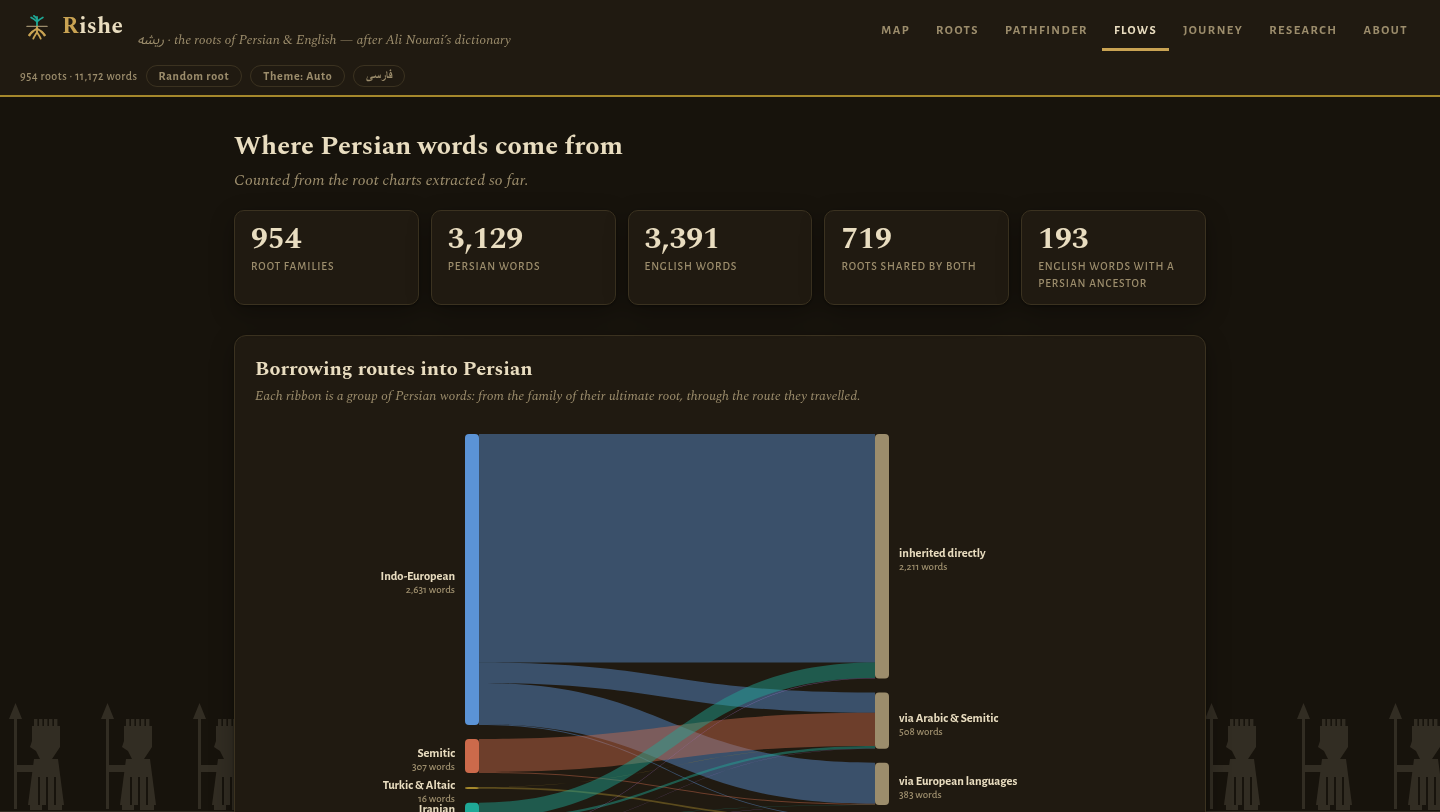
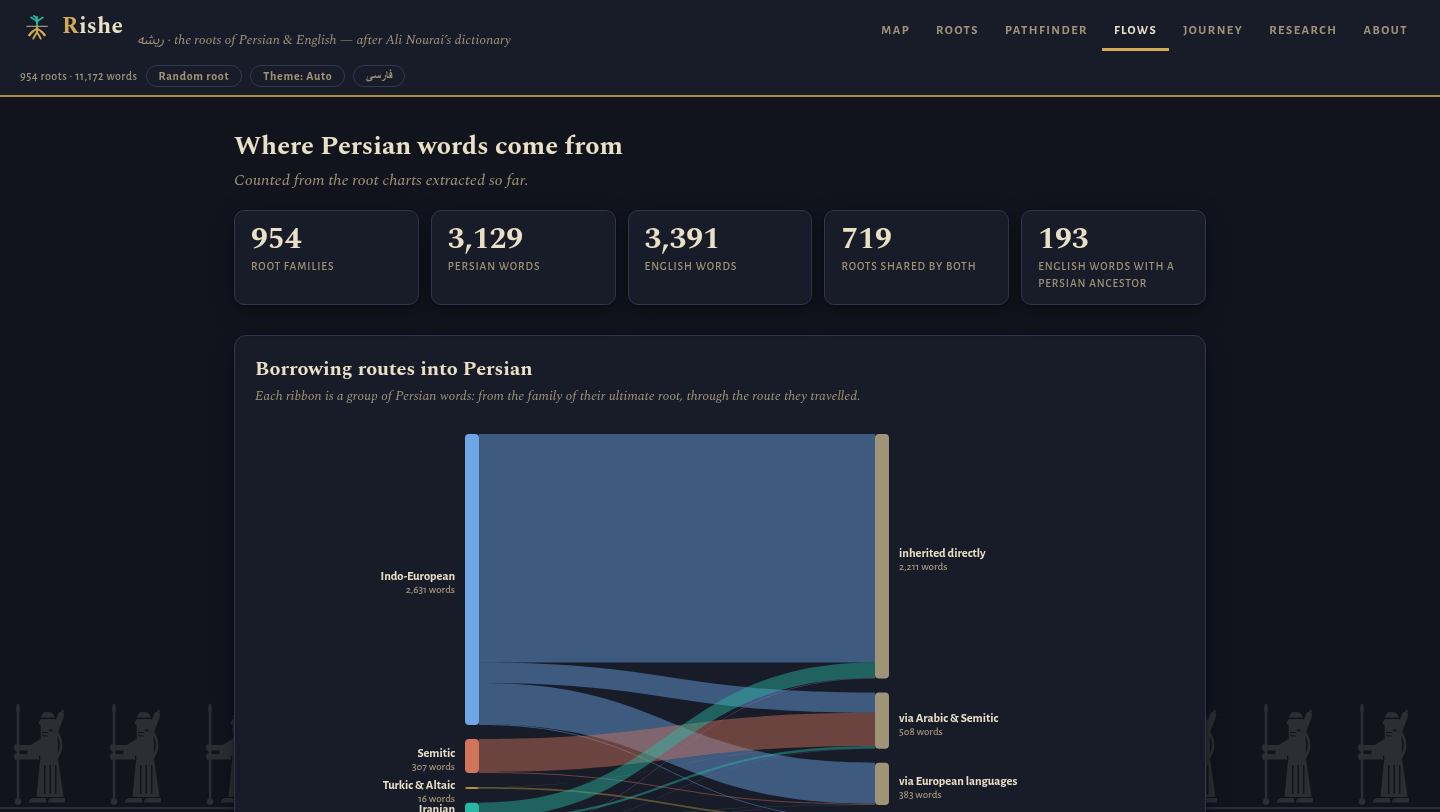
Redraw the frieze as Susa Immortals; recolor the dark theme as lapis night
- The bottom frieze figure is now an Achaemenid Immortal after the
  Susa archer frieze: fillet headband, long square beard, quiver and
  bow slung on the back, both hands gripping an upright spear with
  its ball counterweight at the foot, ankle-length fluted robe —
  drawn at 2x for crisp tiling
- Dark theme moves from flat brown-black to a deep lapis-night
  ground with glazed-brick accents: indigo panels, warm cream ink,
  brighter gold, and turquoise / lapis / terracotta / ochre family
  colors; the parchment light theme is unchanged
- Regenerate the README demo GIF, screenshots, and the og:image
  (docs/screenshot.jpg) from the new build

Claude-Session: https://claude.ai/code/session_016yse7688U6yZTTtuwaciV1

Changed region(s): [[0.8125, 0.8621, 1.0, 1.0], [0.0, 0.8621, 0.1875, 1.0]]

diff --git a/site/template.html b/site/template.html
@@ -57,43 +57,43 @@
   }
   @media (prefers-color-scheme: dark) {
     :root:not([data-theme="light"]) {
-      --bg: #17130c;
-      --panel: #201a11;
-      --panel-2: #2b2314;
-      --ink: #e9ddc0;
-      --muted: #9c8d6c;
-      --line: #3b3220;
-      --accent: #c9a353;
-      --accent-ink: #1c160d;
-      --gold: #c9a353;
-      --gold-soft: #a5882c;
-      --fam-iranian: #1fa896;
-      --fam-ie: #5b93d6;
-      --fam-semitic: #cc6a4b;
-      --fam-turkic: #a5882c;
-      --fam-other: #b078dd;
-      --quote-bg: #191510;
-      --shadow: 0 1px 3px rgba(0,0,0,.4), 0 8px 24px rgba(0,0,0,.3);
+      --bg: #11141d;
+      --panel: #181c29;
+      --panel-2: #222839;
+      --ink: #e9e0c6;
+      --muted: #a09478;
+      --line: #303750;
+      --accent: #d4ab52;
+      --accent-ink: #171307;
+      --gold: #d4ab52;
+      --gold-soft: #ab8c3a;
+      --fam-iranian: #27b9a4;
+      --fam-ie: #6ea6e8;
+      --fam-semitic: #d0745a;
+      --fam-turkic: #b5943f;
+      --fam-other: #b381de;
+      --quote-bg: #141724;
+      --shadow: 0 1px 3px rgba(0,0,0,.45), 0 8px 24px rgba(0,0,0,.35);
     }
   }
   :root[data-theme="dark"] {
-    --bg: #17130c;
-    --panel: #201a11;
-    --panel-2: #2b2314;
-    --ink: #e9ddc0;
-    --muted: #9c8d6c;
-    --line: #3b3220;
-    --accent: #c9a353;
-    --accent-ink: #1c160d;
-    --gold: #c9a353;
-    --gold-soft: #a5882c;
-    --fam-iranian: #1fa896;
-    --fam-ie: #5b93d6;
-    --fam-semitic: #cc6a4b;
-    --fam-turkic: #a5882c;
-    --fam-other: #b078dd;
-    --quote-bg: #191510;
-    --shadow: 0 1px 3px rgba(0,0,0,.4), 0 8px 24px rgba(0,0,0,.3);
+    --bg: #11141d;
+    --panel: #181c29;
+    --panel-2: #222839;
+    --ink: #e9e0c6;
+    --muted: #a09478;
+    --line: #303750;
+    --accent: #d4ab52;
+    --accent-ink: #171307;
+    --gold: #d4ab52;
+    --gold-soft: #ab8c3a;
+    --fam-iranian: #27b9a4;
+    --fam-ie: #6ea6e8;
+    --fam-semitic: #d0745a;
+    --fam-turkic: #b5943f;
+    --fam-other: #b381de;
+    --quote-bg: #141724;
+    --shadow: 0 1px 3px rgba(0,0,0,.45), 0 8px 24px rgba(0,0,0,.35);
   }
   * { box-sizing: border-box; }
   html, body { height: 100%; }
@@ -3068,38 +3068,86 @@ window.ETYM_GANJOOR = /*__GANJOOR__*/null;
   let themePref = "";
   try { themePref = localStorage.getItem("wr-theme") || ""; } catch (e) {}
   function drawFrieze() {
-    const h = 110, unit = 92;
+    // An Immortal of the guard, after the Susa archer frieze: fillet headband,
+    // long square beard, quiver and bow on the back, both hands on the spear,
+    // ankle-length fluted robe. Facing left; design space 96x110, drawn at 2x.
+    const h = 110, unit = 96;
     const c = document.createElement("canvas");
-    c.width = unit; c.height = h;
+    c.width = unit * 2; c.height = h * 2;
     const x = c.getContext("2d");
+    x.scale(2, 2);
     const col = tokColor("--ink") || "#333";
-    x.fillStyle = col;
-    // spear
-    x.fillRect(14, 12, 3, 94);
-    x.beginPath(); x.moveTo(15.5, 0); x.lineTo(9, 16); x.lineTo(22, 16); x.closePath(); x.fill();
-    // fluted cap
-    for (let i = 0; i < 5; i++) x.fillRect(34 + i * 5, 16, 3.4, 8);
-    x.fillRect(32, 23, 28, 9);
-    // head + beard (facing left)
+    x.fillStyle = col; x.strokeStyle = col;
+    // spear: vertical, leaf point up, ball counterweight at the foot
+    x.fillRect(16.8, 9, 2.6, 88);
     x.beginPath();
-    x.moveTo(32, 32); x.lineTo(60, 32); x.lineTo(60, 44); x.lineTo(52, 56);
-    x.lineTo(40, 56); x.lineTo(36, 48); x.lineTo(30, 44); x.lineTo(32, 38);
-    x.closePath(); x.fill();
-    // body robe
+    x.moveTo(18, 0); x.quadraticCurveTo(21.8, 6, 18, 12);
+    x.quadraticCurveTo(14.2, 6, 18, 0); x.closePath(); x.fill();
+    x.beginPath(); x.arc(18, 98.5, 3.4, 0, 7); x.fill();
+    // bow slung along the back
+    x.lineWidth = 2.6;
+    x.beginPath(); x.arc(40, 42, 21, -0.68, 0.7); x.stroke();
+    // quiver on the back, arrows' tuft above the shoulder
+    x.save();
+    x.translate(56, 26); x.rotate(0.35);
+    x.fillRect(-3.2, -15, 6.4, 18);
+    x.beginPath(); x.arc(0, -15, 3.2, Math.PI, 0); x.fill();
+    x.fillRect(-1, -20.5, 2, 5.5);
+    x.restore();
+    // head: profile, fillet band, hair, long square beard
     x.beginPath();
-    x.moveTo(34, 56); x.lineTo(58, 56); x.lineTo(64, 102); x.lineTo(28, 102);
+    x.moveTo(44, 9.5);
+    x.quadraticCurveTo(41, 12, 40.5, 16);
+    x.lineTo(38.5, 20.5);
+    x.lineTo(41, 22.5);
+    x.lineTo(40.5, 25);
+    x.lineTo(41, 36);
+    x.quadraticCurveTo(44.5, 38.5, 48, 36);
+    x.lineTo(48.5, 27);
+    x.lineTo(54, 26);
+    x.quadraticCurveTo(57.5, 18, 53, 10.5);
+    x.quadraticCurveTo(48, 8, 44, 9.5);
     x.closePath(); x.fill();
-    // arm to spear
-    x.fillRect(16, 62, 22, 7);
-    // hem folds (carve out)
+    // robe, slight flare to the ankles
+    x.beginPath();
+    x.moveTo(44, 28);
+    x.lineTo(41.5, 40);
+    x.lineTo(40, 58);
+    x.lineTo(36.5, 94);
+    x.lineTo(63.5, 94);
+    x.lineTo(58, 56);
+    x.lineTo(57.5, 30);
+    x.quadraticCurveTo(51, 27, 44, 28);
+    x.closePath(); x.fill();
+    // arms: sleeve drape + two forearms gripping the shaft
+    x.beginPath();
+    x.moveTo(42, 35); x.lineTo(29, 43); x.lineTo(27, 52); x.lineTo(42, 53);
+    x.closePath(); x.fill();
+    x.fillRect(15, 42, 27, 5.5);
+    x.fillRect(15, 51, 24, 5.5);
+    x.beginPath(); x.arc(17.5, 44.7, 3.7, 0, 7); x.fill();
+    x.beginPath(); x.arc(17.5, 53.7, 3.7, 0, 7); x.fill();
+    // carve details: headband, beard curls, robe folds
     x.globalCompositeOperation = "destination-out";
-    x.fillRect(38, 74, 2, 28); x.fillRect(46, 74, 2, 28); x.fillRect(54, 74, 2, 28);
+    x.fillRect(40.5, 14.6, 15, 1.5);
+    x.fillRect(41.8, 29, 6, 1.1);
+    x.fillRect(41.8, 32.3, 6, 1.1);
+    x.fillRect(44, 62, 1.5, 29);
+    x.fillRect(49.5, 62, 1.5, 29);
+    x.fillRect(55, 62, 1.5, 29);
     x.globalCompositeOperation = "source-over";
-    // feet
-    x.fillRect(30, 102, 12, 5); x.fillRect(48, 102, 14, 5);
+    // feet, both pointing left
+    x.beginPath();
+    x.moveTo(29, 99.5); x.quadraticCurveTo(29, 95, 35, 95);
+    x.lineTo(46, 95); x.lineTo(46, 99.5); x.closePath(); x.fill();
+    x.beginPath();
+    x.moveTo(48, 99.5); x.quadraticCurveTo(48, 95, 54, 95);
+    x.lineTo(65, 95); x.lineTo(65, 99.5); x.closePath(); x.fill();
     // ground line
-    x.fillRect(0, 108, unit, 2);
-    document.getElementById("frieze").style.backgroundImage = "url(" + c.toDataURL() + ")";
+    x.fillRect(0, 104, unit, 2.2);
+    const el = document.getElementById("frieze");
+    el.style.backgroundImage = "url(" + c.toDataURL() + ")";
+    el.style.backgroundSize = unit + "px " + h + "px";
   }
   function applyTheme() {
     if (themePref) document.documentElement.setAttribute("data-theme", themePref);
